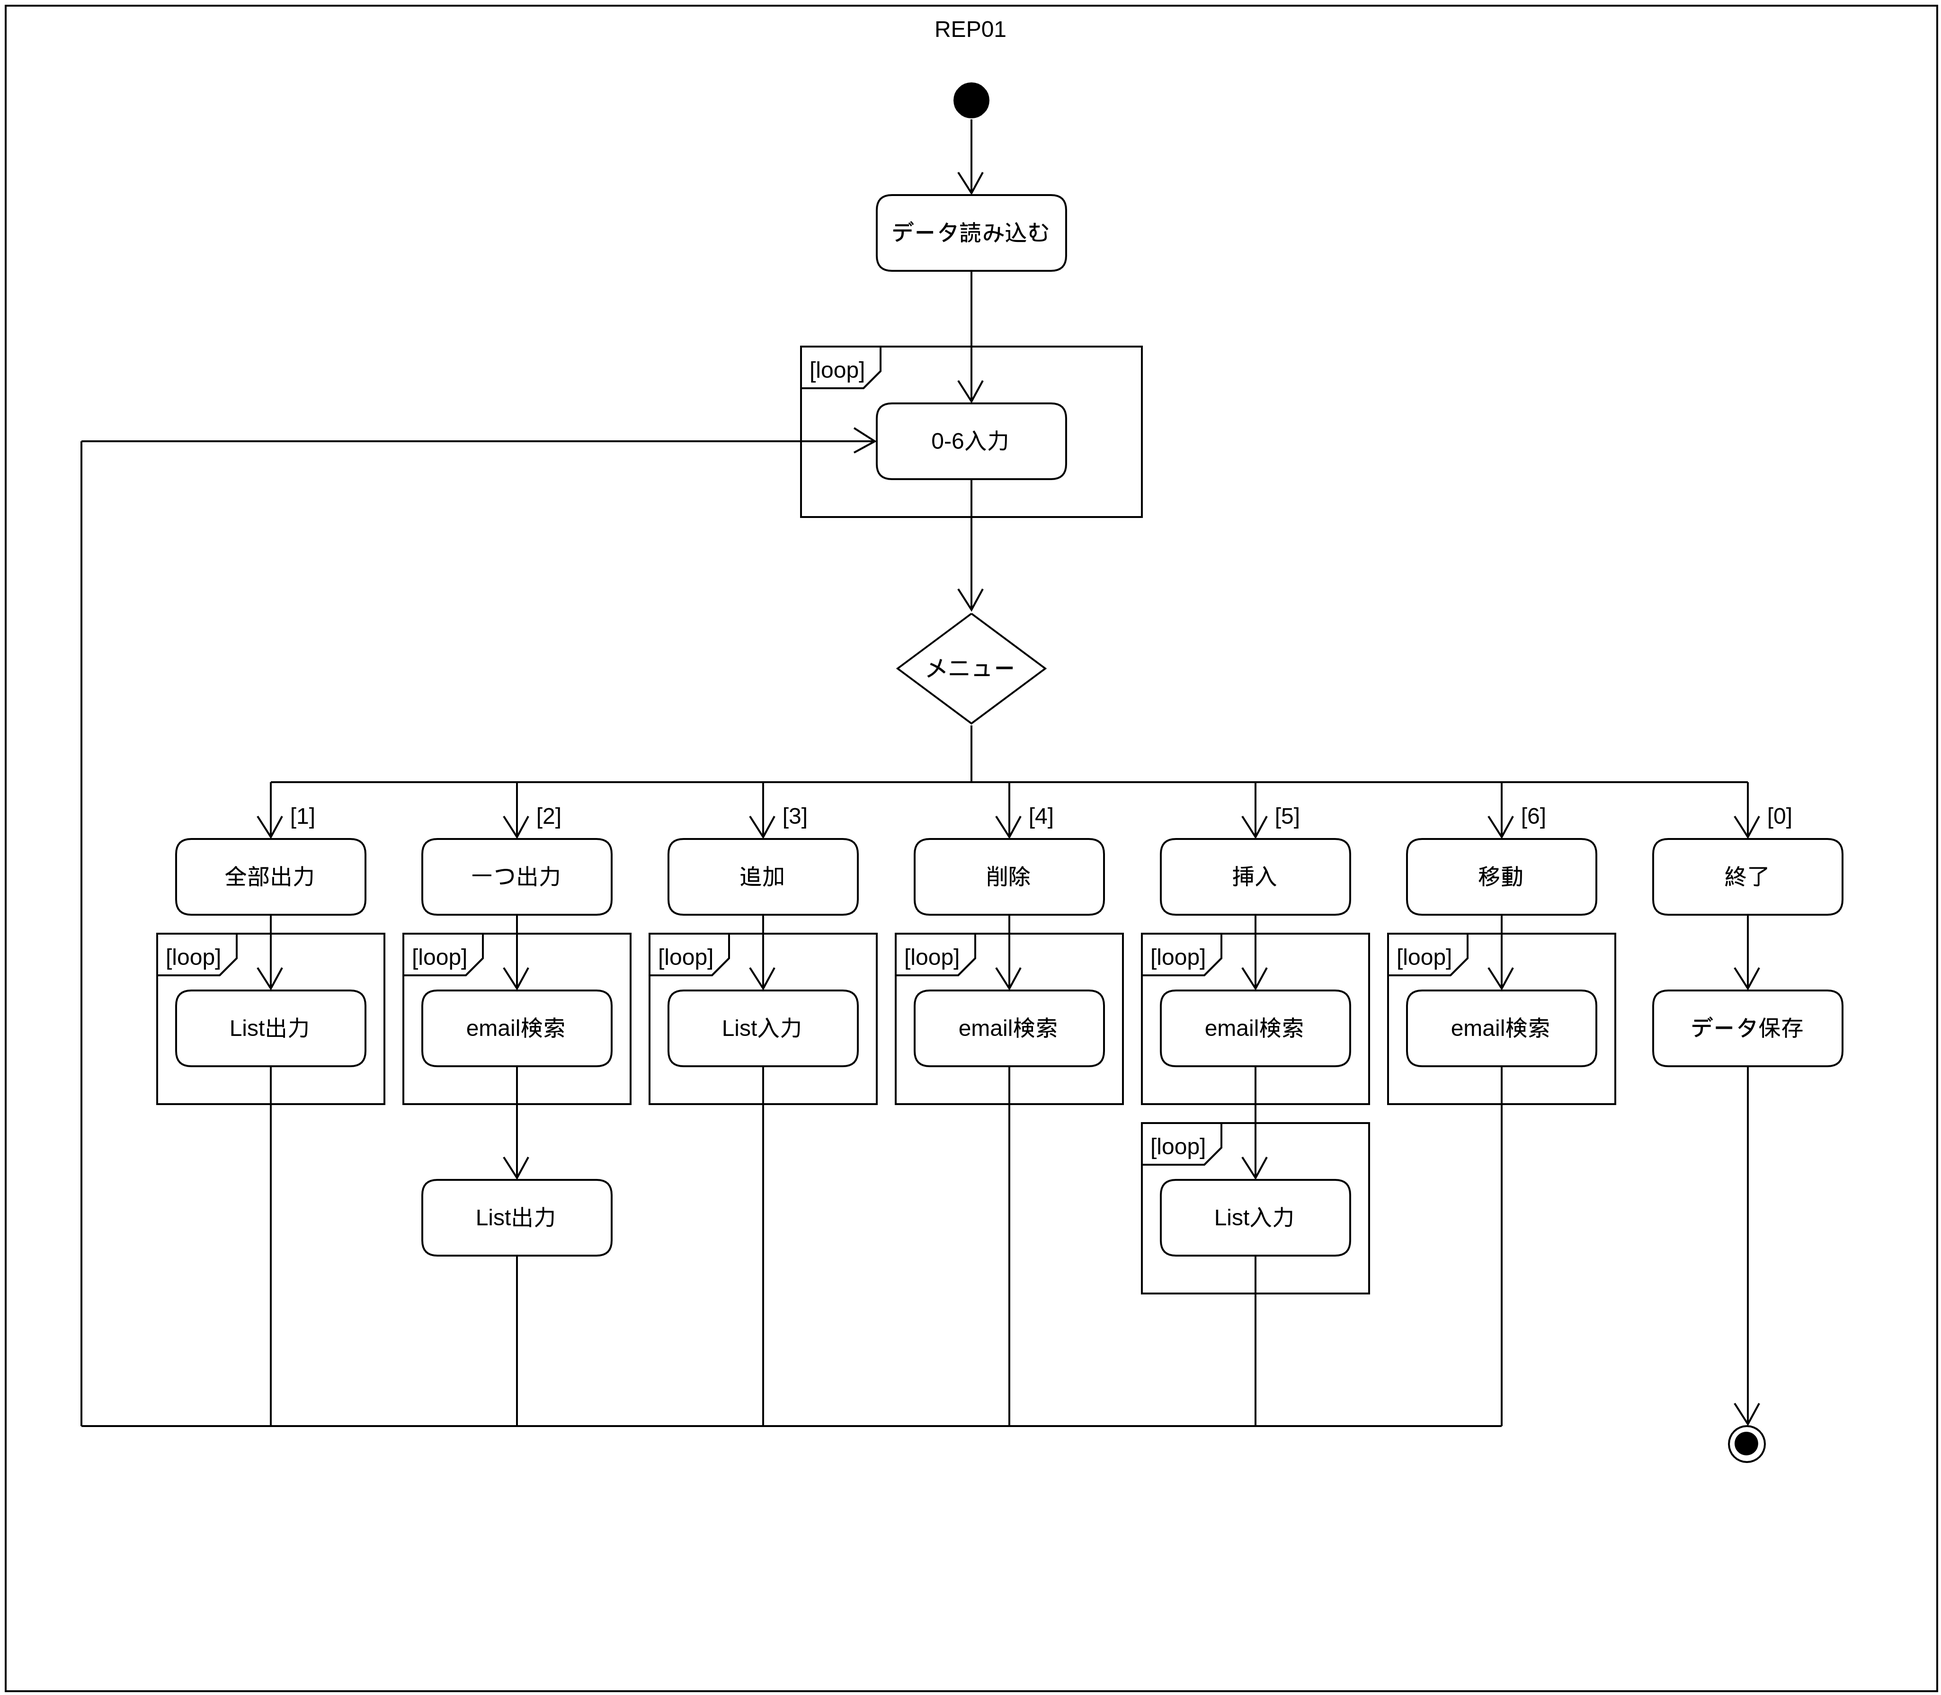
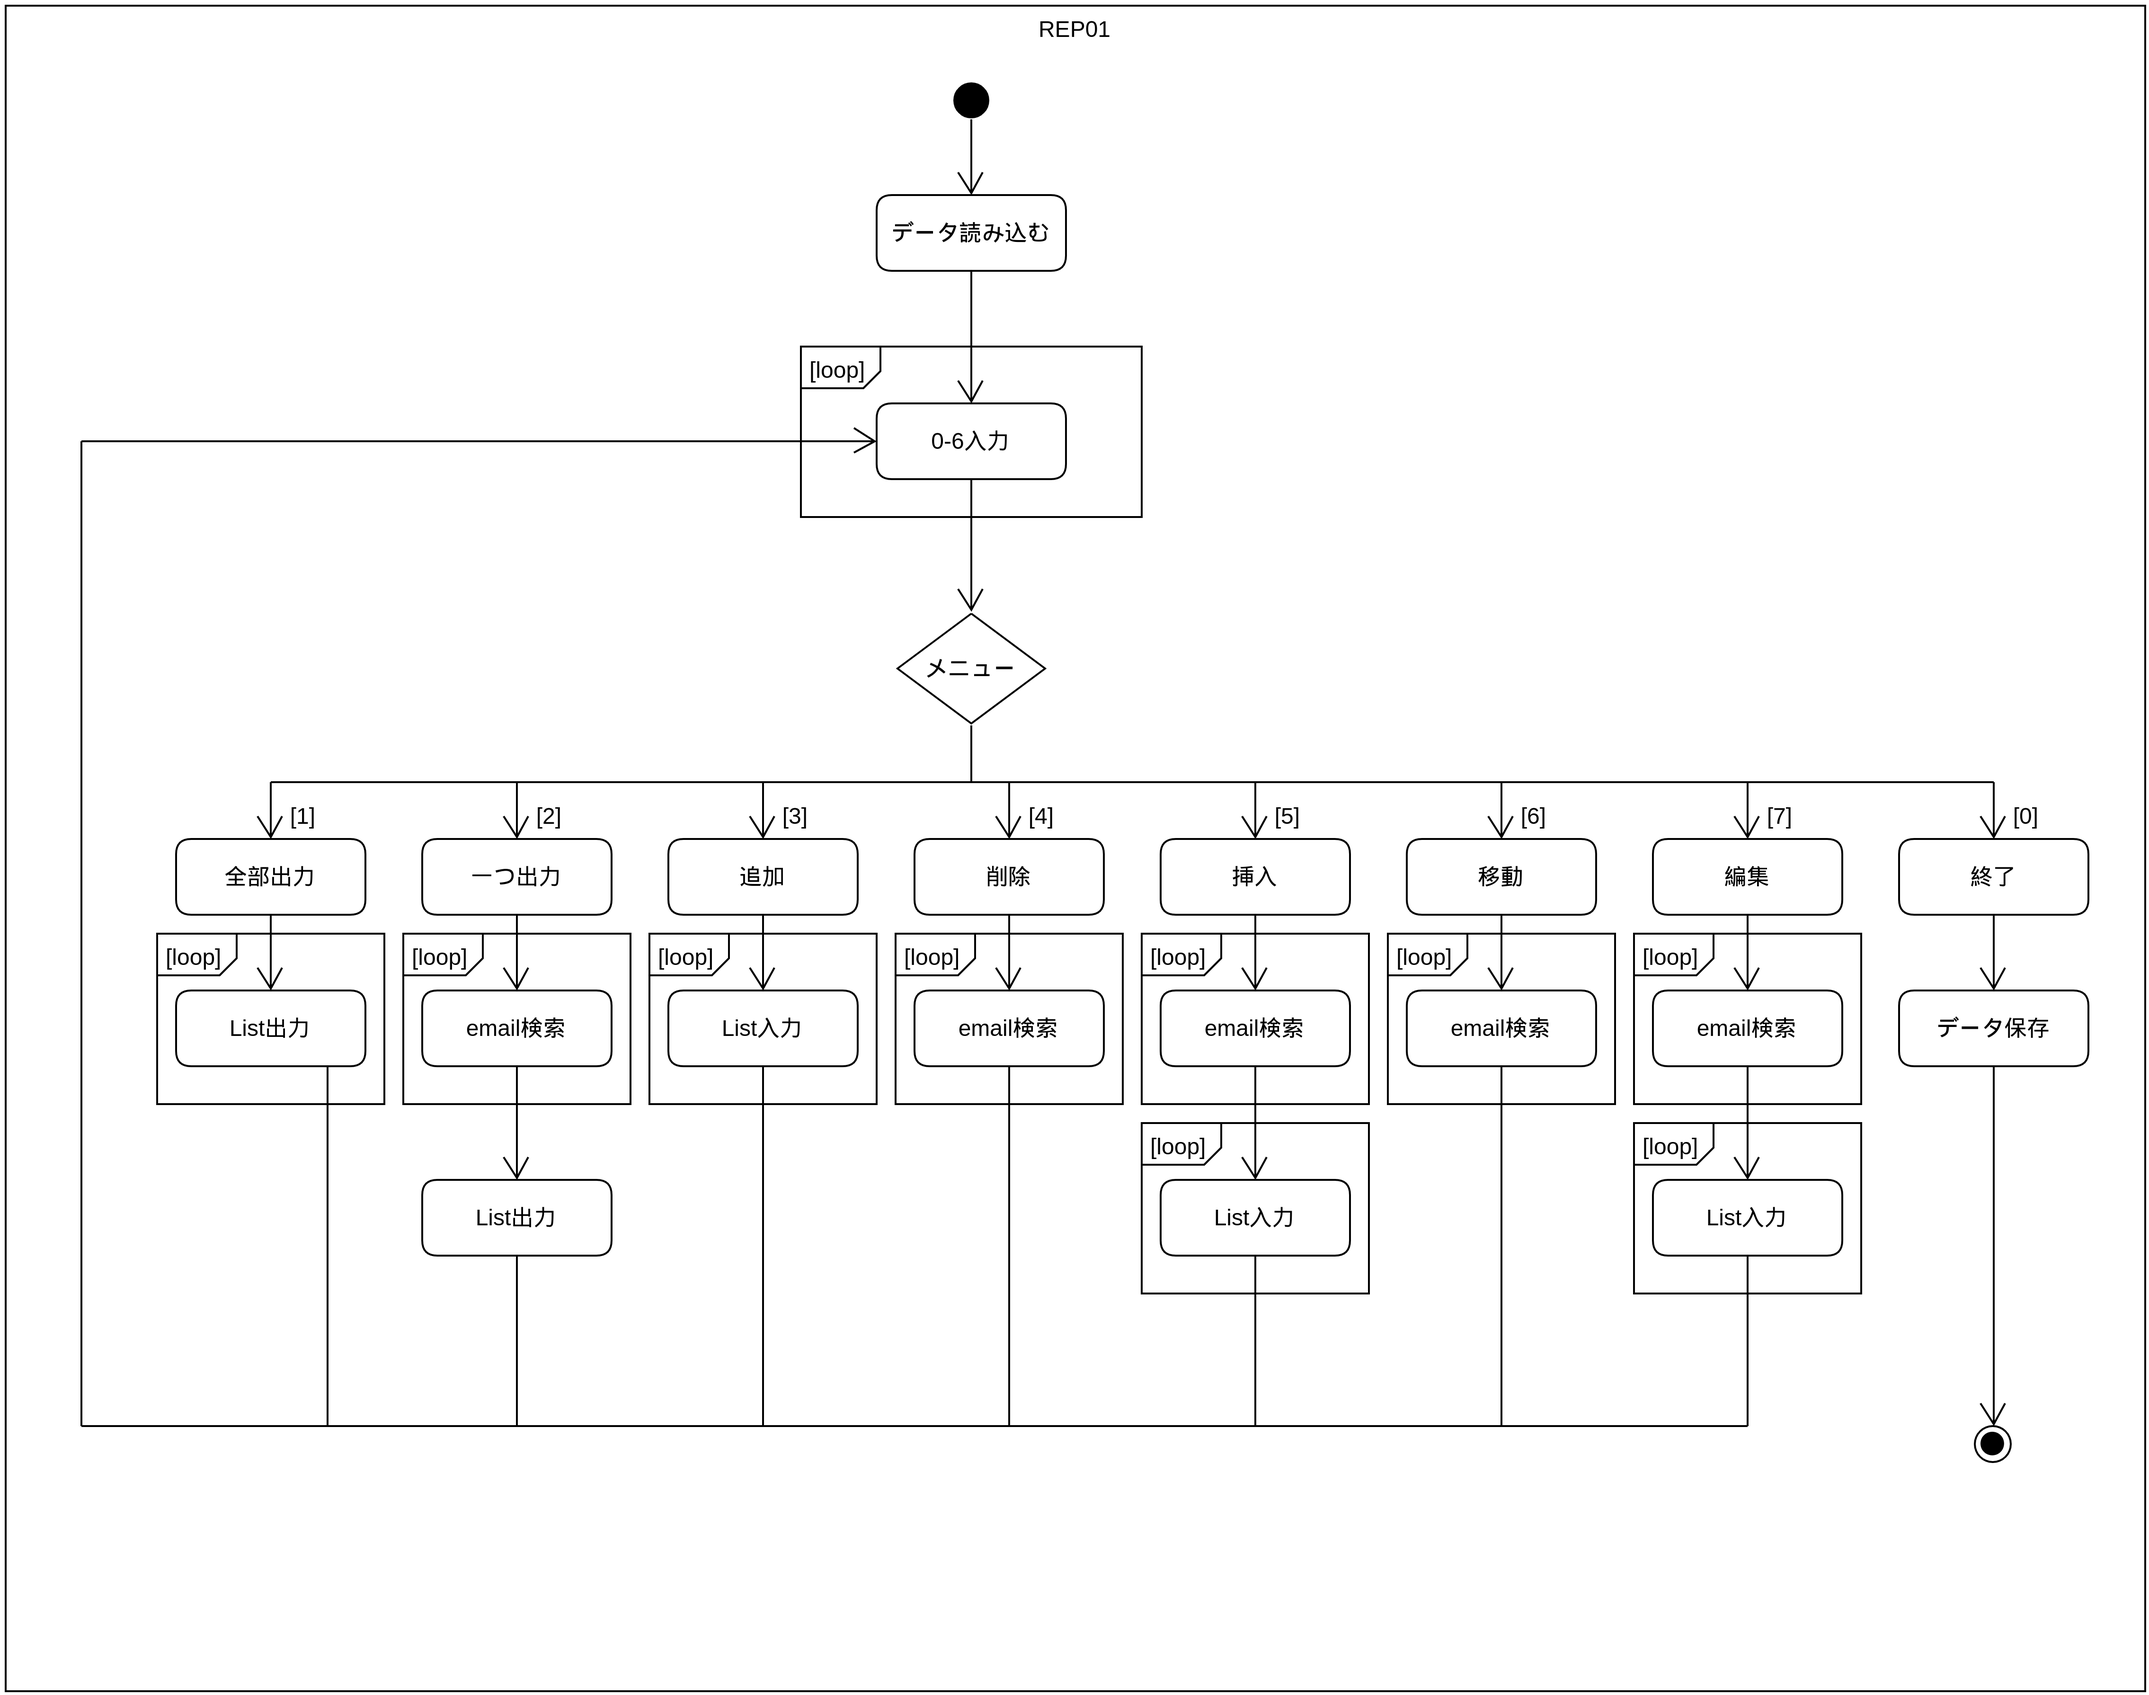
fix insert() / edit() docs

diff --git a/REP01.c b/REP01.c
@@ -11,8 +11,6 @@
 * Use an assets/ folder for non essentials?
 * Make variable names standard, pHead, node, p etc etc
 * Issue happening when writing to file after having added a new item. garbled xml. Only garbled when not all fields and being inputted, solved by validation?
-* Fix edit(), after searching for an entry, insert a new entry *after* that searched entry.
-* When edit() is fixed, rename that current functionality to edit 編集
 * Maybe not needed: Cleanup move() - At this point we can still move the first item in the list if we have more than 2 items total. Maybe disable the ability to move the first item alltogether? would reduce this if statement a lot.
 * Do a file existance check at launch for REP01.XML?
 */

diff --git a/README.md b/README.md
@@ -31,6 +31,7 @@ C言語でプログラミングしたアドレス帳を作っていました。
 * 削除　ー　アドレスを探して消す
 * 挿入　ー　アドレスをemailで探して挿入
 * 移動　ー　アドレスをemailで探して先頭に移動
+* 編集　ー　アドレスをemailで探して編集
 * 保存　ー　終了する時に、アドレスを全部XMLファイルで保存されて、起動する時に読み込む
 
 ---
@@ -54,8 +55,9 @@ C言語でプログラミングしたアドレス帳を作っていました。
 |              | printAll     | List *pHead      | （なし）     | 全部のアドレスを出力            |
 |              | print        | List *pHead      | （なし）     | アドレスを細かくて出力          |
 |              | add          | List *pHead      | （なし）     | アドレスを追加                 |
-|              | edit         | List *pHead      | （なし）     | アドレスを挿入                 |
+|              | insert       | List *pHead      | （なし）     | アドレスを挿入                 |
 |              | move         | List *pHead      | （なし）     | アドレスを削除                 |
+|              | edit         | List *pHead      | （なし）     | アドレスを編集                 |
 |              | destroyAll   | List *pHead      | （なし）     | 全部のアドレスを削除            |
 |              | destroy      | List *pHead      | （なし）     | アドレスを削除                 |
 |              | find         | List *pHead      | List *      | emailでアドレスを検索          |
